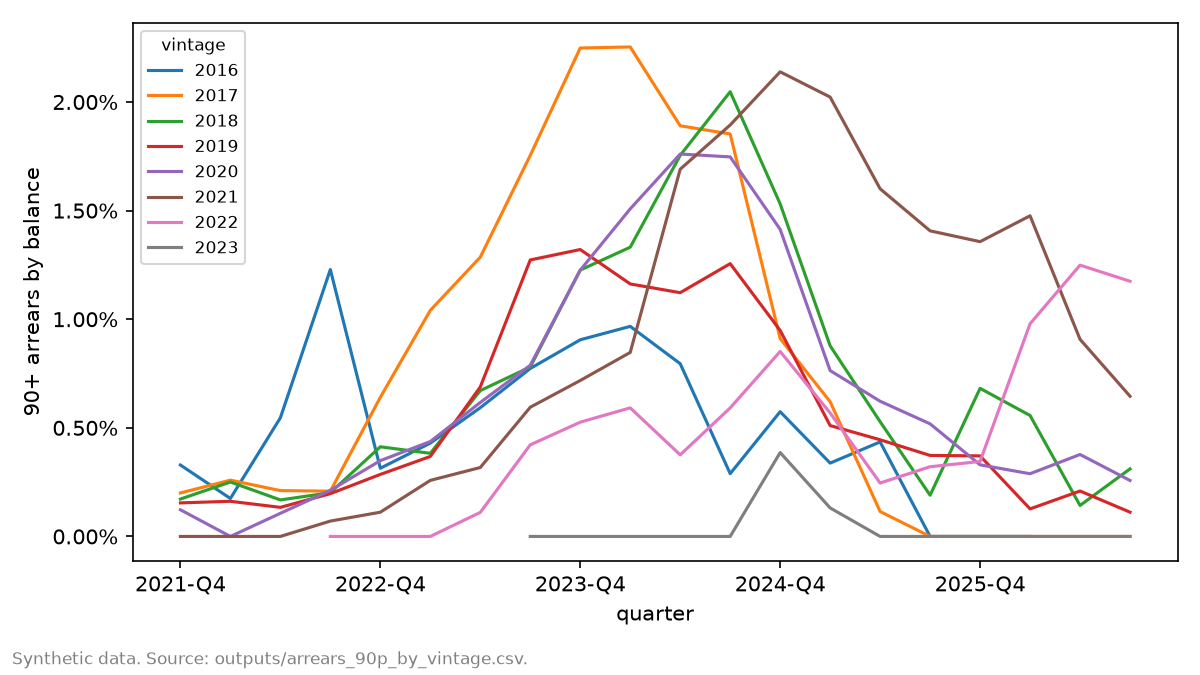
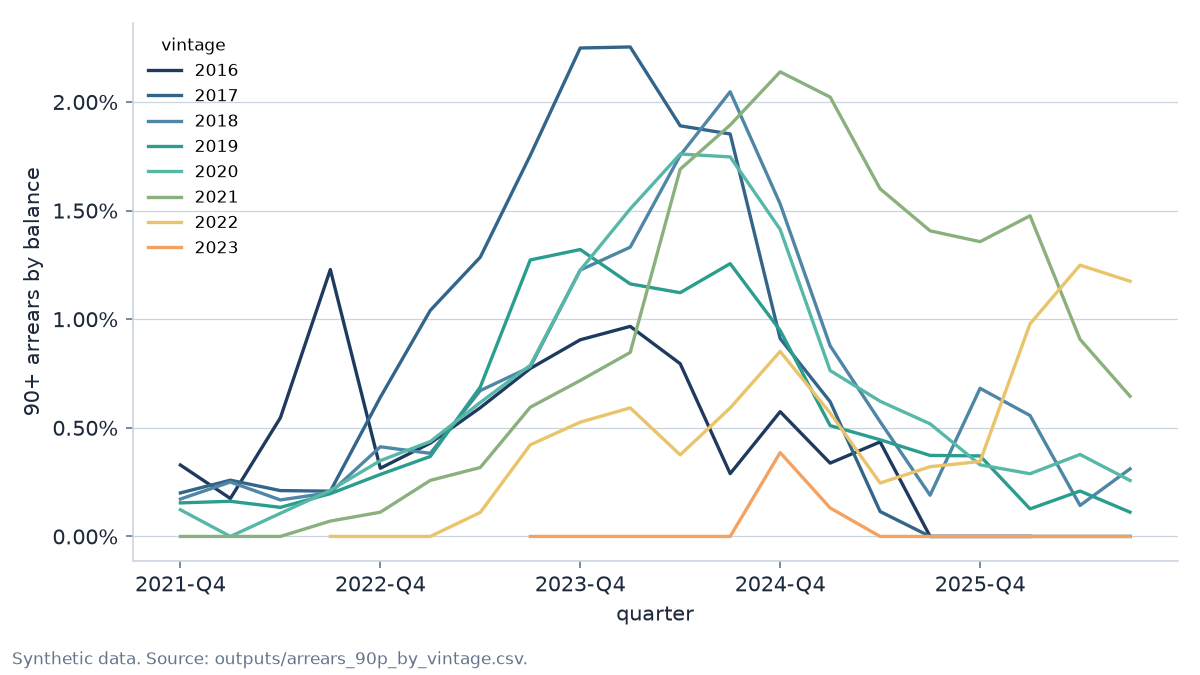
styling: navy and teal palette for the PDFs and charts
Claude-Session: https://claude.ai/code/session_01E6f3w1y8dFNVY3qZu27mSf

diff --git a/rmbsq/deliverable/pdf.py b/rmbsq/deliverable/pdf.py
@@ -25,21 +25,30 @@ from reportlab.lib.styles import ParagraphStyle
 from reportlab.lib.units import cm
 from reportlab.lib.utils import ImageReader
 from reportlab.pdfbase.pdfmetrics import stringWidth
-from reportlab.platypus import (Image, KeepTogether, ListFlowable, ListItem, Paragraph, Preformatted,
-                                SimpleDocTemplate, Spacer, Table, TableStyle)
+from reportlab.platypus import (HRFlowable, Image, KeepTogether, ListFlowable, ListItem, Paragraph,
+                                Preformatted, SimpleDocTemplate, Spacer, Table, TableStyle)
 
 rl_config.invariant = 1
 
 MARGIN = 2 * cm  # D.2
 GREY = colors.grey
+# palette, shared with rmbsq/deliverable/figures.py
+NAVY = colors.HexColor("#1F3A5F")
+TEAL = colors.HexColor("#2A9D8F")
+INK = colors.HexColor("#1E293B")
+MUTED = colors.HexColor("#64748B")
+RULE = colors.HexColor("#CBD5E1")
+PANEL = colors.HexColor("#F1F5F9")
+BAND_PT = 6  # height of the navy band across the top of every page
 FOOTNOTE = "All figures are generated from CSV files committed in the repo. The data is synthetic."  # D.2
 DESIGN_IMAGE_MAX_CM = 8.0  # D.2
 SUMMARY_IMAGE_START_CM, SUMMARY_IMAGE_STEP_CM, SUMMARY_IMAGE_MIN_CM = 5.5, 0.5, 3.5  # D.3
 
 # D.2 sizes in pt: title, heading, body, body leading, code, table
 SIZES = {
-    "design": {"title": 16, "heading": 12, "body": 10, "leading": 13, "code": 8.5, "table": 9},
-    "summary": {"title": 13, "heading": 10, "body": 8.5, "leading": 10.5, "code": 7.5, "table": 8.5},
+    "design": {"title": 16, "heading": 12, "body": 10, "leading": 13, "code": 8.5, "table": 9, "row_pad": (2.5, 3)},
+    "summary": {"title": 13, "heading": 10, "body": 8.5, "leading": 10.5, "code": 7.5, "table": 8.5,
+                "row_pad": (0.8, 1.6)},
 }
 HEADER_PT, FOOTER_PT, FOOTNOTE_PT = 9, 7.5, 8  # D.2
 TABLE_PAD = 4  # pt, left and right padding of a table cell
@@ -188,20 +197,22 @@ def _styles(font: str, kind: str) -> dict[str, ParagraphStyle]:
     body_gap = z["body"] * 0.6
     return {
         "title": ParagraphStyle("title", fontName=bold, fontSize=z["title"], leading=z["title"] * 1.25,
-                                spaceAfter=2),
+                                spaceAfter=2, textColor=NAVY),
         "header": ParagraphStyle("header", fontName=font, fontSize=HEADER_PT, leading=HEADER_PT * 1.3,
-                                 textColor=GREY, spaceAfter=z["body"]),
+                                 textColor=TEAL, spaceAfter=4),
         "heading": ParagraphStyle("heading", fontName=bold, fontSize=z["heading"], leading=z["heading"] * 1.25,
-                                  spaceBefore=z["heading"] * 0.6, spaceAfter=z["heading"] * 0.35, keepWithNext=1),
+                                  spaceBefore=z["heading"] * 0.8, spaceAfter=z["heading"] * 0.4, keepWithNext=1,
+                                  textColor=NAVY),
         "body": ParagraphStyle("body", fontName=font, fontSize=z["body"], leading=z["leading"],
-                               spaceAfter=body_gap),
-        "bullet": ParagraphStyle("bullet", fontName=font, fontSize=z["body"], leading=z["leading"]),
-        "code": ParagraphStyle("code", fontName="Courier", fontSize=z["code"], leading=z["code"] * 1.25,
-                               leftIndent=z["body"], spaceAfter=body_gap),
-        "cell": ParagraphStyle("cell", fontName=font, fontSize=z["table"], leading=z["table"] * 1.25),
-        "cell_head": ParagraphStyle("cell_head", fontName=bold, fontSize=z["table"], leading=z["table"] * 1.25),
+                               spaceAfter=body_gap, textColor=INK),
+        "bullet": ParagraphStyle("bullet", fontName=font, fontSize=z["body"], leading=z["leading"], textColor=INK),
+        "code": ParagraphStyle("code", fontName="Courier", fontSize=z["code"], leading=z["code"] * 1.35,
+                               textColor=NAVY),
+        "cell": ParagraphStyle("cell", fontName=font, fontSize=z["table"], leading=z["table"] * 1.25, textColor=INK),
+        "cell_head": ParagraphStyle("cell_head", fontName=bold, fontSize=z["table"], leading=z["table"] * 1.25,
+                                    textColor=colors.white),
         "footnote": ParagraphStyle("footnote", fontName=font, fontSize=FOOTNOTE_PT, leading=FOOTNOTE_PT * 1.3,
-                                   textColor=GREY, spaceBefore=z["body"]),
+                                   textColor=MUTED, spaceBefore=z["body"]),
     }
 
 
@@ -209,24 +220,27 @@ def _plain(markup: str) -> str:
     return re.sub(r"<[^>]+>", "", markup).replace("&lt;", "<").replace("&gt;", ">").replace("&amp;", "&")
 
 
-def _table(header, body, line, st, font, width) -> Table:
+def _table(header, body, line, st, font, width, row_pad=(2.5, 3)) -> Table:
     bold = tt2ps(font, 1, 0)
     marked = [[inline(c, line, font) for c in header]] + [[inline(c, line + 2 + k, font) for c in r]
                                                          for k, r in enumerate(body)]
     size = st["cell"].fontSize
     natural = [max(stringWidth(_plain(row[j]), bold if r == 0 else font, size) for r, row in enumerate(marked))
-               + 2 * TABLE_PAD + 2 for j in range(len(header))]
+               + 2 * (TABLE_PAD + 1) + 2 for j in range(len(header))]
     scale = min(1.0, width / sum(natural))
     widths = [w * scale for w in natural]
     data = [[Paragraph(c, st["cell_head"] if r == 0 else st["cell"]) for c in row] for r, row in enumerate(marked)]
     t = Table(data, colWidths=widths, hAlign="LEFT", repeatRows=1)
     t.setStyle(TableStyle([
-        ("GRID", (0, 0), (-1, -1), 0.25, GREY),  # D.2: 0.25 pt grey grid
-        ("VALIGN", (0, 0), (-1, -1), "TOP"),
-        ("LEFTPADDING", (0, 0), (-1, -1), TABLE_PAD),
-        ("RIGHTPADDING", (0, 0), (-1, -1), TABLE_PAD),
-        ("TOPPADDING", (0, 0), (-1, -1), 1.5),
-        ("BOTTOMPADDING", (0, 0), (-1, -1), 2.5),
+        ("BACKGROUND", (0, 0), (-1, 0), NAVY),  # header row
+        ("ROWBACKGROUNDS", (0, 1), (-1, -1), [colors.white, PANEL]),  # zebra body rows
+        ("LINEBELOW", (0, 0), (-1, -1), 0.25, RULE),  # D.2: 0.25 pt grid, now horizontal rules only
+        ("BOX", (0, 0), (-1, -1), 0.25, RULE),
+        ("VALIGN", (0, 0), (-1, -1), "MIDDLE"),
+        ("LEFTPADDING", (0, 0), (-1, -1), TABLE_PAD + 1),
+        ("RIGHTPADDING", (0, 0), (-1, -1), TABLE_PAD + 1),
+        ("TOPPADDING", (0, 0), (-1, -1), row_pad[0]),
+        ("BOTTOMPADDING", (0, 0), (-1, -1), row_pad[1]),
     ]))
     t.spaceAfter = st["body"].spaceAfter
     # keep each table on 1 page; every table here is short, so it moves whole rather than splitting
@@ -262,6 +276,8 @@ def story(blocks: list[Block], cfg, kind: str, image_height_cm: float | None, wi
             out.append(Paragraph(inline(b.content, b.line, font), st["title"]))
             out.append(Paragraph(_escape(f"{cfg.deliverable.author} · {cfg.deliverable.date_label}"),
                                  st["header"]))
+            out.append(HRFlowable(width="100%", thickness=1.2, color=TEAL, spaceBefore=2,
+                                  spaceAfter=st["body"].fontSize, hAlign="LEFT"))
         elif b.kind == "heading":
             out.append(Paragraph(inline(b.content, b.line, font), st["heading"]))
         elif b.kind == "para":
@@ -270,13 +286,23 @@ def story(blocks: list[Block], cfg, kind: str, image_height_cm: float | None, wi
             items = [ListItem(Paragraph(inline(t, n, font), st["bullet"]), leftIndent=st["body"].fontSize * 1.4)
                      for n, t in b.content]
             out.append(ListFlowable(items, bulletType="bullet", start="•", bulletFontName=font,
-                                    bulletFontSize=st["body"].fontSize, leftIndent=st["body"].fontSize * 1.4,
-                                    spaceAfter=st["body"].spaceAfter))
+                                    bulletFontSize=st["body"].fontSize, bulletColor=TEAL,
+                                    leftIndent=st["body"].fontSize * 1.4, spaceAfter=st["body"].spaceAfter))
         elif b.kind == "table":
             header, body = b.content
-            out.append(_table(header, body, b.line, st, font, width))
+            out.append(_table(header, body, b.line, st, font, width, SIZES[kind]["row_pad"]))
         elif b.kind == "code":
-            out.append(Preformatted("\n".join(b.content), st["code"]))
+            pre = Preformatted("\n".join(b.content), st["code"])
+            panel = Table([[pre]], colWidths=[width], hAlign="LEFT")
+            panel.setStyle(TableStyle([
+                ("BACKGROUND", (0, 0), (-1, -1), PANEL),
+                ("LINEBEFORE", (0, 0), (0, -1), 2, TEAL),
+                ("LEFTPADDING", (0, 0), (-1, -1), 8),
+                ("TOPPADDING", (0, 0), (-1, -1), 4),
+                ("BOTTOMPADDING", (0, 0), (-1, -1), 4),
+            ]))
+            panel.spaceAfter = st["body"].spaceAfter
+            out.append(panel)
         elif b.kind == "image":
             _alt, rel = b.content
             path = Path(cfg.root) / rel
@@ -290,8 +316,16 @@ def story(blocks: list[Block], cfg, kind: str, image_height_cm: float | None, wi
 def _footer(cfg, total: int):
     def draw(canvas, doc):
         canvas.saveState()
+        w, h = A4
+        canvas.setFillColor(NAVY)
+        canvas.rect(0, h - BAND_PT, w, BAND_PT, stroke=0, fill=1)  # band across the top
+        canvas.setFillColor(TEAL)
+        canvas.rect(0, h - BAND_PT - 1.5, w, 1.5, stroke=0, fill=1)  # thin teal line under it
+        canvas.setStrokeColor(RULE)
+        canvas.setLineWidth(0.4)
+        canvas.line(MARGIN, MARGIN / 2 + FOOTER_PT + 2, w - MARGIN, MARGIN / 2 + FOOTER_PT + 2)
         canvas.setFont(cfg.deliverable.font, FOOTER_PT)
-        canvas.setFillColor(GREY)
+        canvas.setFillColor(MUTED)
         y = MARGIN / 2
         canvas.drawString(MARGIN, y, cfg.deliverable.repo_url)
         canvas.drawRightString(A4[0] - MARGIN, y, f"page {doc.page} of {total}")

diff --git a/rmbsq/deliverable/figures.py b/rmbsq/deliverable/figures.py
@@ -61,14 +61,35 @@ def _seconds(v: float, _pos) -> str:
     return f"{v:g}" if lead in (1, 2, 5) else ""
 
 
+NAVY, TEAL, INK, MUTED, RULE = "#1F3A5F", "#2A9D8F", "#1E293B", "#64748B", "#CBD5E1"  # shared with pdf.py
+SYSTEM_COLOURS = {"system": NAVY, "baseline": TEAL}
+# 8 vintages, from deep navy through teal to sand, readable side by side
+VINTAGE_COLOURS = ["#1F3A5F", "#33658A", "#4F86A6", "#2A9D8F", "#57B8A8", "#8AB17D", "#E9C46A", "#F4A261"]
+
+
+def _style(ax):
+    for side in ("top", "right"):
+        ax.spines[side].set_visible(False)
+    for side in ("left", "bottom"):
+        ax.spines[side].set_color(RULE)
+    ax.tick_params(colors=MUTED, labelcolor=INK)
+    ax.yaxis.label.set_color(INK)
+    ax.xaxis.label.set_color(INK)
+    ax.title.set_color(NAVY)
+    ax.grid(axis="y", color=RULE, linewidth=0.6)
+    ax.set_axisbelow(True)
+
+
 def _figure():
     plt.rcParams["svg.hashsalt"] = "rmbsq"
-    return plt.subplots(figsize=SIZE)
+    fig, ax = plt.subplots(figsize=SIZE)
+    _style(ax)
+    return fig, ax
 
 
 def _save(fig, outputs: Path, key: str) -> Path:
     png, source = FIGURES[key]
-    fig.text(0.01, 0.01, f"Synthetic data. Source: outputs/{source}.", fontsize=8, color="grey",
+    fig.text(0.01, 0.01, f"Synthetic data. Source: outputs/{source}.", fontsize=8, color=MUTED,
              ha="left", va="bottom")
     fig.tight_layout(rect=(0, 0.04, 1, 1))
     path = Path(outputs) / png
@@ -83,14 +104,15 @@ def arrears_figure(outputs: Path) -> Path:
     quarters = sorted(df["period_label"].unique())
     pos = {q: i for i, q in enumerate(quarters)}
     fig, ax = _figure()
-    for year, g in df.groupby("vintage_year", sort=True):
+    for k, (year, g) in enumerate(df.groupby("vintage_year", sort=True)):
         g = g.sort_values("period_label")
-        ax.plot([pos[q] for q in g["period_label"]], g["arrears_90p_bal"], label=str(year), linewidth=1.5)
+        ax.plot([pos[q] for q in g["period_label"]], g["arrears_90p_bal"], label=str(year), linewidth=1.6,
+                color=VINTAGE_COLOURS[k % len(VINTAGE_COLOURS)])
     ax.set_xticks(range(0, len(quarters), 4), quarters[::4])
     ax.yaxis.set_major_formatter(PercentFormatter(1.0))
     ax.set_ylabel("90+ arrears by balance")
     ax.set_xlabel("quarter")
-    ax.legend(title="vintage", fontsize=8, title_fontsize=8, loc="upper left")
+    ax.legend(title="vintage", fontsize=8, title_fontsize=8, loc="upper left", frameon=False)
     return _save(fig, outputs, "arrears")
 
 
@@ -102,15 +124,15 @@ def scale_figure(outputs: Path) -> Path:
     wide = wide.sort_values([tiled, "1x"]).reset_index()
     fig, ax = _figure()
     x = range(len(wide))
-    ax.scatter(x, wide["1x"], s=18, label="1x")
-    ax.scatter(x, wide[tiled], s=18, label=tiled)
+    ax.scatter(x, wide["1x"], s=20, label="1x", color=TEAL)
+    ax.scatter(x, wide[tiled], s=20, label=tiled, color=NAVY)
     ax.set_yscale("log")
     ax.yaxis.set_major_formatter(FuncFormatter(_seconds))
     ax.yaxis.set_minor_formatter(FuncFormatter(_seconds))
     ax.set_xticks(list(x), wide["item_id"], rotation=90, fontsize=7)
     ax.set_ylabel("median query time (s)")
     ax.set_title("Query time per test question, at 1x and 36x data volume")
-    ax.legend(fontsize=8, loc="upper left")
+    ax.legend(fontsize=8, loc="upper left", frameon=False)
     return _save(fig, outputs, "scale")
 
 
@@ -125,12 +147,13 @@ def eval_figure(outputs: Path) -> Path:
         x = [i + (j - 0.5) * width for i in range(len(categories))]
         acc = part["accuracy"].to_numpy()
         err = [acc - part["wilson_lo"].to_numpy(), part["wilson_hi"].to_numpy() - acc]
-        ax.bar(x, acc, width, yerr=err, capsize=3, label=label)
+        ax.bar(x, acc, width, yerr=err, capsize=3, label=label, color=SYSTEM_COLOURS[system],
+               error_kw={"ecolor": MUTED, "elinewidth": 0.8})
     ax.set_xticks(range(len(categories)), categories)
     ax.set_ylim(0, 1)
     ax.yaxis.set_major_formatter(PercentFormatter(1.0))
     ax.set_ylabel("share correct")
-    ax.legend(fontsize=8, loc="upper right")
+    ax.legend(fontsize=8, loc="upper center", bbox_to_anchor=(0.5, -0.08), ncol=2, frameon=False)
     return _save(fig, outputs, "eval")
 
 
